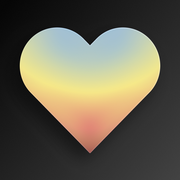
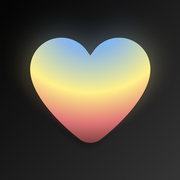
Add files via upload

Changed region(s): [[0.0833, 0.1389, 0.9167, 0.8611]]

diff --git a/index.html b/index.html
@@ -12,8 +12,8 @@
 <meta name="apple-mobile-web-app-title" content="Souffle">
 <meta name="format-detection" content="telephone=no">
 <link rel="manifest" href="manifest.webmanifest">
-<link rel="apple-touch-icon" href="apple-touch-icon.png">
-<link rel="icon" type="image/png" href="icon-192.png">
+<link rel="apple-touch-icon" href="apple-touch-icon.png?v=2">
+<link rel="icon" type="image/png" href="icon-192.png?v=2">
 
 <!-- Thème posé AVANT le premier rendu (évite le flash clair → sombre) -->
 <script>
@@ -137,7 +137,7 @@ html[data-theme="dark"] .card,html[data-theme="dark"] .group{background-image:li
 .num{font-variant-numeric:tabular-nums}
 
 /* ---------- héros : le cœur ---------- */
-.hero{position:relative;width:min(74vw,290px);aspect-ratio:104/94;margin:4px auto 0}
+.hero{position:relative;width:min(74vw,290px);aspect-ratio:229/201.6;margin:4px auto 0}
 /* halo : trois nappes de couleur qui reprennent le dégradé du cœur, fondues et qui respirent avec lui */
 .aura{position:absolute;pointer-events:none;
   background:
@@ -147,14 +147,16 @@ html[data-theme="dark"] .card,html[data-theme="dark"] .group{background-image:li
   filter:blur(34px);-webkit-filter:blur(34px);transform:translateZ(0)}
 .hero .aura{inset:-34% -30% -24%;opacity:var(--aura);animation:halo 9s ease-in-out infinite;transform-origin:50% 50%}
 @keyframes halo{0%,100%{transform:scale(.94) translateZ(0);opacity:calc(var(--aura) * .8)}50%{transform:scale(1.06) translateZ(0);opacity:var(--aura)}}
-.heart{position:relative;display:block;width:100%;height:100%;overflow:visible;filter:drop-shadow(0 16px 26px rgba(150,90,80,.26))}
+.heart{position:relative;display:block;width:100%;height:100%;overflow:visible;filter:drop-shadow(-4px 14px 22px rgba(150,90,80,.28))}
 html[data-theme="dark"] .heart{filter:drop-shadow(0 20px 34px rgba(0,0,0,.55))}
 .hero .heart{animation:breatheSoft 9s ease-in-out infinite;transform-origin:50% 55%}
 @keyframes breatheSoft{0%,100%{transform:scale(1)}50%{transform:scale(1.025)}}
-.hero-in{position:absolute;left:12%;right:12%;top:13%;height:52%;display:flex;flex-direction:column;align-items:center;justify-content:center;
+/* texte centré sur le « ventre » du cœur (bande jaune), pas sous l’échancrure */
+.hero-in{position:absolute;left:16%;right:16%;top:25%;height:44%;display:flex;flex-direction:column;align-items:center;justify-content:center;
   color:var(--on-heart);text-align:center;pointer-events:none}
-.hero-n{font-size:clamp(64px,21vw,92px);font-weight:500;line-height:.95;letter-spacing:-.04em;font-variant-numeric:tabular-nums}
-.hero-l{margin-top:6px;font-size:15px;font-weight:500;opacity:.72;max-width:170px;line-height:1.2}
+.hero-n{font-size:clamp(72px,23vw,100px);font-weight:400;line-height:.86;letter-spacing:-.055em;font-variant-numeric:tabular-nums;
+  text-shadow:0 1px 0 rgba(255,255,255,.18)}
+.hero-l{margin-top:12px;font-size:13.5px;font-weight:500;letter-spacing:.01em;line-height:1.25;opacity:.62;white-space:nowrap}
 .budget{display:flex;flex-wrap:wrap;justify-content:center;gap:7px;max-width:300px;margin:18px auto 0;min-height:4px}
 .budget i{width:11px;height:11px;border-radius:50%;box-shadow:inset 0 0 0 1.5px var(--ink3)}
 .budget i.used{box-shadow:none;background:var(--coral)}
@@ -271,7 +273,7 @@ html.locked #scroll,html.locked .top,html.locked .tabbar-wrap,html.locked .toast
 .lock.out{animation:lockOut .34s cubic-bezier(.4,0,.2,1) forwards}
 @keyframes lockOut{to{opacity:0;transform:scale(1.06)}}
 @keyframes fadeIn{from{opacity:0}to{opacity:1}}
-.lock-heart{width:78px;height:70px;margin-bottom:20px;overflow:visible;filter:drop-shadow(0 10px 24px rgba(0,0,0,.5));animation:breatheSoft 5s ease-in-out infinite}
+.lock-heart{width:78px;height:69px;margin-bottom:20px;overflow:visible;filter:drop-shadow(0 10px 24px rgba(0,0,0,.5));animation:breatheSoft 5s ease-in-out infinite}
 .lock h2{margin:0;font-size:22px;font-weight:600;letter-spacing:-.01em}
 .lock p{margin:8px 0 0;font-size:15px;color:rgba(243,239,233,.62);min-height:21px}
 .dots{display:flex;gap:18px;margin:26px 0 34px}
@@ -466,6 +468,11 @@ a.btn{text-decoration:none}
 .ghost-heart{position:fixed;margin:0;pointer-events:none;z-index:45;transform-origin:0 0;overflow:visible;will-change:transform;
   filter:drop-shadow(0 20px 36px rgba(0,0,0,.45))}
 html.fly #hero .heart,html.fly #brHeartBox .heart{opacity:0}
+/* le chiffre et sa légende accompagnent le cœur : ils s’effacent au départ et reviennent quand il se pose */
+.hero-in{transition:opacity .38s ease,transform .5s cubic-bezier(.2,.9,.3,1.15)}
+html.fly .hero-in{opacity:0;transform:scale(.86);transition:opacity .16s ease,transform .2s ease}
+.budget,.hero-sub{transition:opacity .4s ease}
+html.fly .budget,html.fly .hero-sub{opacity:0;transition:opacity .16s ease}
 .breathe.open .br-top{animation:riseIn .6s .25s cubic-bezier(.2,.8,.2,1) both}
 .breathe.open .br-hint{animation:riseIn .7s .35s cubic-bezier(.2,.8,.2,1) both}
 .breathe.open .br-reason{animation:riseIn .7s .45s cubic-bezier(.2,.8,.2,1) both}
@@ -479,7 +486,7 @@ html.fly #hero .heart,html.fly #brHeartBox .heart{opacity:0}
 .br-top{width:100%;max-width:520px;display:flex;justify-content:space-between;align-items:center;min-height:48px}
 .br-top span{font-size:15px;color:rgba(243,239,233,.55);font-variant-numeric:tabular-nums}
 .br-stage{flex:1;display:flex;flex-direction:column;align-items:center;justify-content:center;width:100%;min-height:0}
-.br-heart{position:relative;width:min(68vw,300px,42vh);aspect-ratio:104/94}
+.br-heart{position:relative;width:min(68vw,300px,42vh);aspect-ratio:229/201.6}
 .br-heart .aura{inset:-38%;opacity:.7;transform:scale(.72)}
 .br-heart .heart{transform:scale(.72);transform-origin:50% 52%;filter:drop-shadow(0 24px 40px rgba(0,0,0,.6))}
 .breathe.run .br-heart .heart,.breathe.run .br-heart .aura{animation:breathe 10s ease-in-out infinite}
@@ -620,13 +627,10 @@ html[data-theme="dark"] .tabbar-wrap .dg-host::after,html[data-theme="dark"] .se
 <!-- dégradés partagés (cœur, graphique) -->
 <svg width="0" height="0" style="position:absolute" aria-hidden="true" focusable="false">
   <defs>
-    <!-- radial Figma : centre en haut au milieu ; couleurs telles que rendues par l'effet verre de l'icône -->
-    <radialGradient id="gHeart" cx=".5" cy="0" r="1" fx=".5" fy="0">
-      <stop offset="0" stop-color="#a6c3da"/><stop offset=".11" stop-color="#a9c5d6"/><stop offset=".23" stop-color="#b1c7c5"/>
-      <stop offset=".34" stop-color="#b8ccc1"/><stop offset=".42" stop-color="#d0d7a8"/><stop offset=".51" stop-color="#f3e78c"/>
-      <stop offset=".57" stop-color="#f3da87"/><stop offset=".63" stop-color="#f0c983"/><stop offset=".69" stop-color="#eaad7d"/>
-      <stop offset=".74" stop-color="#e39378"/><stop offset=".83" stop-color="#d98b72"/><stop offset=".91" stop-color="#c47c66"/>
-      <stop offset=".97" stop-color="#ae6858"/><stop offset="1" stop-color="#a45d50"/>
+    <!-- radial de l’icône V2 (Figma) : centre au-dessus du cœur, ellipse 291 × 255 -->
+    <radialGradient id="gHeart" cx="0" cy="0" r="1" gradientUnits="userSpaceOnUse" gradientTransform="translate(126.4 -29.305) rotate(90) scale(254.914 291.33)">
+      <stop offset=".106" stop-color="#7fb3f2"/><stop offset=".226" stop-color="#8cb7e3"/><stop offset=".514" stop-color="#fff189"/>
+      <stop offset=".731" stop-color="#e07575"/><stop offset="1" stop-color="#5a2626"/>
     </radialGradient>
     <radialGradient id="gShine" cx=".3" cy=".16" r=".6">
       <stop offset="0" stop-color="#fff" stop-opacity=".42"/><stop offset=".55" stop-color="#fff" stop-opacity=".06"/><stop offset="1" stop-color="#fff" stop-opacity="0"/>
@@ -634,7 +638,7 @@ html[data-theme="dark"] .tabbar-wrap .dg-host::after,html[data-theme="dark"] .se
     <linearGradient id="gShade" x1="0" y1="0" x2="0" y2="1">
       <stop offset=".7" stop-color="#320c0c" stop-opacity="0"/><stop offset="1" stop-color="#320c0c" stop-opacity=".14"/>
     </linearGradient>
-    <path id="heartPath" d="M50 89.4L7.82 46.42A27.3 27.3 0 1 1 50 12.13A27.3 27.3 0 1 1 92.18 46.42Z"/>
+    <path id="heartPath" d="M119.984 25.4682L126.4 34.3223L132.816 25.4682C143.509 10.6685 160.704 1.89999 178.969 1.89999C210.407 1.89999 235.9 27.393 235.9 58.8314V59.9435C235.9 107.935 176.06 163.669 144.835 187.494C139.531 191.515 133.03 193.525 126.4 193.525C119.77 193.525 113.226 191.557 107.965 187.494C76.74 163.669 16.9 107.935 16.9 59.9435V58.8314C16.9 27.393 42.393 1.89999 73.8314 1.89999C92.0957 1.89999 109.291 10.6685 119.984 25.4682Z"/>
   </defs>
 </svg>
 
@@ -648,7 +652,7 @@ html[data-theme="dark"] .tabbar-wrap .dg-host::after,html[data-theme="dark"] .se
       <div class="vis">
         <div class="v-halo"></div>
         <div class="v-sparks"><i></i><i></i><i></i><i></i><i></i><i></i><i></i><i></i></div>
-        <svg class="v-heart big" viewBox="-2 -2 104 94" aria-hidden="true"><use href="#heartPath" fill="url(#gHeart)"/><use href="#heartPath" fill="url(#gShine)"/><use href="#heartPath" fill="none" stroke="rgba(255,255,255,.55)" stroke-width=".7" stroke-linejoin="round"/></svg>
+        <svg class="v-heart big" viewBox="11.9 -3.1 229 201.6" aria-hidden="true"><use href="#heartPath" fill="url(#gHeart)"/></svg>
       </div>
       <h2>Bienvenue sur Souffle</h2>
       <p>Réduire ou arrêter la cigarette, à ton rythme et sans culpabilité. Tout reste sur ton téléphone.</p>
@@ -657,7 +661,7 @@ html[data-theme="dark"] .tabbar-wrap .dg-host::after,html[data-theme="dark"] .se
       <div class="vis">
         <div class="v-halo"></div>
         <div class="v-phone">
-          <svg class="v-heart mid" viewBox="-2 -2 104 94" aria-hidden="true"><use href="#heartPath" fill="url(#gHeart)"/><use href="#heartPath" fill="url(#gShine)"/><use href="#heartPath" fill="none" stroke="rgba(255,255,255,.55)" stroke-width=".7" stroke-linejoin="round"/></svg>
+          <svg class="v-heart mid" viewBox="11.9 -3.1 229 201.6" aria-hidden="true"><use href="#heartPath" fill="url(#gHeart)"/></svg>
           <div class="v-num">2</div>
           <div class="v-dots"><i class="on"></i><i class="on"></i><i></i></div>
           <div class="v-btns"><span class="v-b acc">J’ai une envie</span><span class="v-b">J’en fume une</span></div>
@@ -669,7 +673,7 @@ html[data-theme="dark"] .tabbar-wrap .dg-host::after,html[data-theme="dark"] .se
     <article class="slide">
       <div class="vis">
         <div class="v-ring r1"></div><div class="v-ring r2"></div><div class="v-ring r3"></div>
-        <svg class="v-heart breathe-demo" viewBox="-2 -2 104 94" aria-hidden="true"><use href="#heartPath" fill="url(#gHeart)"/><use href="#heartPath" fill="url(#gShine)"/><use href="#heartPath" fill="none" stroke="rgba(255,255,255,.55)" stroke-width=".7" stroke-linejoin="round"/></svg>
+        <svg class="v-heart breathe-demo" viewBox="11.9 -3.1 229 201.6" aria-hidden="true"><use href="#heartPath" fill="url(#gHeart)"/></svg>
         <div class="v-word">Inspire</div>
       </div>
       <h2>Une envie ? On respire.</h2>
@@ -712,7 +716,7 @@ html[data-theme="dark"] .tabbar-wrap .dg-host::after,html[data-theme="dark"] .se
       <div id="obQuit" hidden><div class="q-sub">Date d’arrêt</div><input class="inp date ob-date" type="date" id="obQuitDate" aria-label="Date d’arrêt"></div>
     </article>
     <article class="slide q">
-      <div class="vis small"><div class="v-halo"></div><svg class="v-heart big" viewBox="-2 -2 104 94" aria-hidden="true"><use href="#heartPath" fill="url(#gHeart)"/><use href="#heartPath" fill="url(#gShine)"/><use href="#heartPath" fill="none" stroke="rgba(255,255,255,.55)" stroke-width=".7" stroke-linejoin="round"/></svg></div>
+      <div class="vis small"><div class="v-halo"></div><svg class="v-heart big" viewBox="11.9 -3.1 229 201.6" aria-hidden="true"><use href="#heartPath" fill="url(#gHeart)"/></svg></div>
       <h2>Ton plan est prêt</h2>
       <div class="sum" id="obSum"></div>
     </article>
@@ -725,9 +729,8 @@ html[data-theme="dark"] .tabbar-wrap .dg-host::after,html[data-theme="dark"] .se
 
 <!-- verrouillage -->
 <section class="lock" id="lock" role="dialog" aria-modal="true" aria-label="Souffle est verrouillé">
-  <svg class="lock-heart" viewBox="-2 -2 104 94" aria-hidden="true">
-    <use href="#heartPath" fill="url(#gHeart)"/><use href="#heartPath" fill="url(#gShine)"/>
-    <use href="#heartPath" fill="none" stroke="rgba(255,255,255,.5)" stroke-width=".8" stroke-linejoin="round"/>
+  <svg class="lock-heart" viewBox="11.9 -3.1 229 201.6" aria-hidden="true">
+    <use href="#heartPath" fill="url(#gHeart)"/>
   </svg>
   <h2 id="lockTitle">Souffle est verrouillé</h2>
   <p id="lockSub">Entre ton code</p>
@@ -769,9 +772,8 @@ html[data-theme="dark"] .tabbar-wrap .dg-host::after,html[data-theme="dark"] .se
 
     <div class="hero" id="hero">
       <div class="aura" aria-hidden="true"></div>
-      <svg class="heart" viewBox="-2 -2 104 94" aria-hidden="true">
-        <use href="#heartPath" fill="url(#gHeart)"/><use href="#heartPath" fill="url(#gShine)"/><use href="#heartPath" fill="url(#gShade)"/>
-        <use href="#heartPath" fill="none" stroke="rgba(255,255,255,.55)" stroke-width=".6" stroke-linejoin="round"/>
+      <svg class="heart" viewBox="11.9 -3.1 229 201.6" aria-hidden="true">
+        <use href="#heartPath" fill="url(#gHeart)"/>
       </svg>
       <div class="hero-in" aria-live="polite"><div class="hero-n" id="heroN">0</div><div class="hero-l" id="heroL">aujourd’hui</div></div>
     </div>
@@ -1051,9 +1053,8 @@ html[data-theme="dark"] .tabbar-wrap .dg-host::after,html[data-theme="dark"] .se
   <div class="br-stage">
     <div class="br-heart" id="brHeartBox">
       <div class="aura" aria-hidden="true"></div>
-      <svg class="heart" viewBox="-2 -2 104 94" aria-hidden="true">
-        <use href="#heartPath" fill="url(#gHeart)"/><use href="#heartPath" fill="url(#gShine)"/><use href="#heartPath" fill="url(#gShade)"/>
-        <use href="#heartPath" fill="none" stroke="rgba(255,255,255,.5)" stroke-width=".6" stroke-linejoin="round"/>
+      <svg class="heart" viewBox="11.9 -3.1 229 201.6" aria-hidden="true">
+        <use href="#heartPath" fill="url(#gHeart)"/>
       </svg>
     </div>
     <div class="br-phase" id="brPhase" aria-live="polite">Inspire</div>
@@ -1162,11 +1163,21 @@ html[data-theme="dark"] .tabbar-wrap .dg-host::after,html[data-theme="dark"] .se
 (function(){
 'use strict';
 
-const APP_VERSION = '1.7.2';          // ← à changer à chaque version (et VERSION dans sw.js)
+const APP_VERSION = '1.8.2';          // ← à changer à chaque version (et VERSION dans sw.js)
 const SETTINGS_KEY = 'souffle.settings', DATA_KEY = 'souffle.data';
 
 /* ---------- nouveautés (la plus récente en premier) ---------- */
 const CHANGELOG = [
+  { v:'1.8.2', date:'13 novembre 2026', items:[
+    'Retour de la respiration : le chiffre et sa légende reviennent en fondu avec le cœur, sans saut'
+  ]},
+  { v:'1.8.1', date:'13 novembre 2026', items:[
+    'Chiffre et légende recentrés sur le nouveau cœur, typographie affinée'
+  ]},
+  { v:'1.8.0', date:'10 novembre 2026', items:[
+    'Nouvelle icône, et le nouveau cœur partout dans l’app (accueil, respiration, verrouillage, présentation)',
+    'Dégradé du cœur repris à l’identique de l’icône'
+  ]},
   { v:'1.7.2', date:'10 novembre 2026', items:[
     'Les « spéciales » s’appellent désormais « Autres »',
     'Présentation : la question sur les autres est retirée (l’option reste dans Plan)'

diff --git a/sw.js b/sw.js
@@ -2,7 +2,7 @@
    Stratégie : réseau d'abord (on voit toujours la dernière version), cache en repli (hors ligne).
    Les requêtes de vérification de mise à jour (?_=…) ne sont jamais mises en cache.
    À CHAQUE NOUVELLE VERSION : changer VERSION ici ET APP_VERSION dans index.html. */
-const VERSION = '1.7.2';
+const VERSION = '1.8.2';
 const CACHE = 'souffle-' + VERSION;
 const FONTS = 'souffle-fonts';
 const PRECACHE = ['./', 'index.html', 'manifest.webmanifest', 'apple-touch-icon.png', 'icon-192.png', 'icon-512.png',
